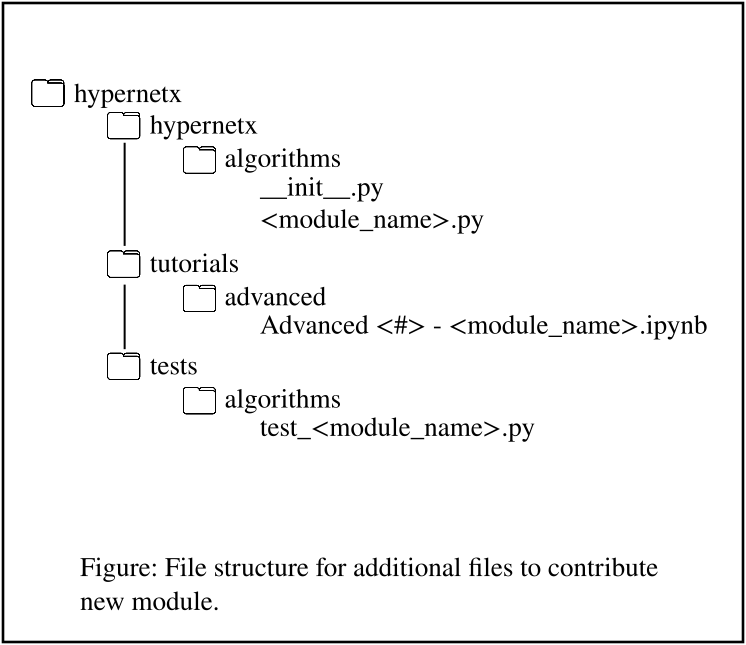
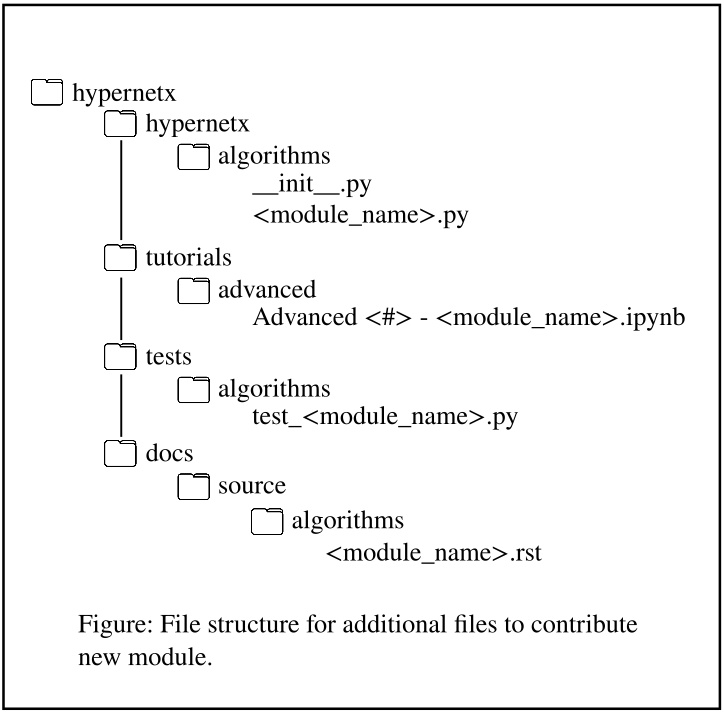
updating contributions guideline with rst documentation stuff and figure update.

diff --git a/docs/source/contributions.rst b/docs/source/contributions.rst
@@ -13,7 +13,7 @@ Contributions can be slow, but the closer the pull request is to our guidelines 
 The required new files for any new module are listed below and an example file structure of the additional files is shown in the figure below. 
 
 .. image:: ./images/module_addition_file_structure.png
-   :width: 300px
+   :width: 330px
    :align: right
 
 * Python file: Create a new Python file named **<module_name>.py** under the folder **hypernetx/hypernetx/algorithms/.**. This file will contain the core functionalities of your module. All methods need to have docstrings in the new module.
@@ -21,6 +21,8 @@ The required new files for any new module are listed below and an example file s
 * Jupyter Notebook: Create a Jupyter notebook under in the folder **hypernetx/tutorials/advanced/.** that demonstrates usage examples of your module. This notebook should be named **Advanced <module number> - <module_name>.ipynb**. Please look at the current advanced module number and choose an appropriate number.
 
 * Test file: Write unit tests for your module in a file named **test_<module_name>.py** under the tests folder located at **hypernetx/tests/algorithms/.**. These tests should ensure the correctness and functionality of your code.
+
+* Documentation: Write an rst file named **<module_name>.rst** under the algorithms documentation folder located at **hypernetx/docs/source/algorithms/.**. This documentations should focus on the mathematics or theory behind your module with citations to relevant papers and documents. Additionally it should provide code snippets demonstrating usage that parallel the tutorial.
 
 Step-by-Step Process
 ~~~~~~~~~~~~~~~~~~~~
@@ -34,6 +36,8 @@ Step-by-Step Process
 #. Jupyter Notebook Creation: Create a Jupyter notebook named **Advanced <module number> - <module_name>.ipynb** under advanced tutorials folder **hypernetx/tutorials/advanced/.**. This notebook should showcase how to use your module and demonstrate its capabilities with thorough documentation. Additionally, in the notebook and any other documentation please provide clear documentation on any new dependencies outside of core HNX that are required.
 
 #. Testing: Write unit tests in the test_<module_name>.py file to ensure your module functions as expected. This should be located in the algorithm tests folder. In the top hypernetx directory you can use the makefile and the command ``make test`` to validate everything is passing. Please see other tests and follow a similar format.
+
+# Read the Docs: Include your rst file in the algorithms folder of the source docs overviewing the theory/mathematics of the new module with example code. See other rst files as examples of formatting.
 
 #. __init__.py Update: Update the __init__.py file in the **hypernetx/hypernetx/algorithms/** folder to import your new module. Please follow the style of importing used by the other modules.
 
